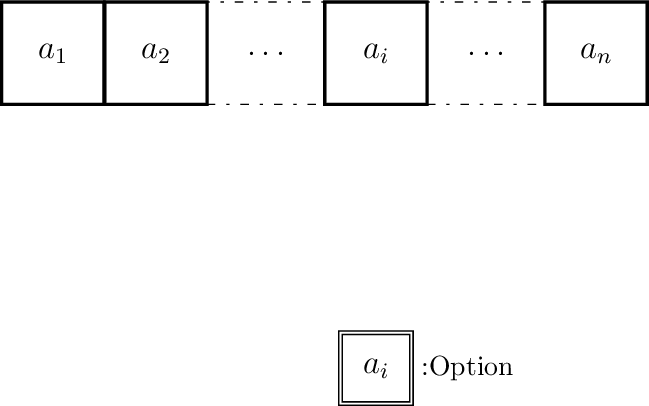
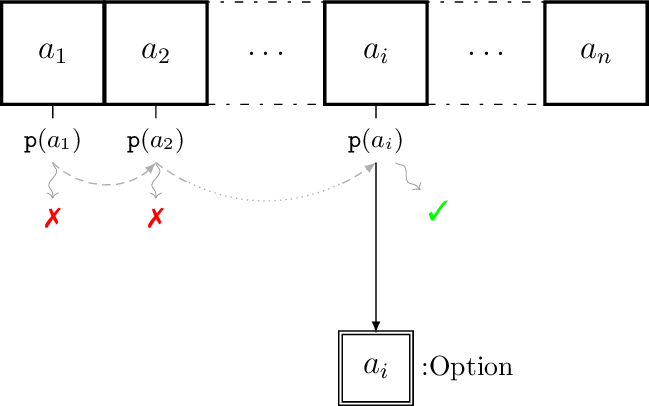
restore find function

diff --git a/src/images/find.tex b/src/images/find.tex
@@ -11,13 +11,17 @@
 
 \node (B) [option, below of=ai, node distance=4cm] {$a_i$};
 
-\foreach \i in {1,2,i,n} {
-  % \node (fa\i) [predicate, below=0.5em of a\i, pin={[function result, pin position=335]a}] {$\texttt{p}(a_{\i})$};
-  % \draw (a\i) -- (fa\i);
+\foreach \i/\d/\p in {
+  1/\false/below,
+  2/\false/below,
+  i/\true/310}
+{
+  \node (pa\i) [predicate, below=0.5em of a\i, pin={[function result, pin position=\p] \d}] {$\texttt{p}(a_{\i})$};
+  \draw (a\i) -- (pa\i);
 }
 
-% \draw (pa1.south) [iteration] to (pa2.south);
-% \draw (pa2.south) [iteration, middotted, bend right=37] to (pai.south);
-% \draw (pai.south) [arrow] -- (B);
+\draw (pa1.south) [iteration] to (pa2.south);
+\draw (pa2.south) [iteration, middotted, bend right=37] to (pai.south);
+\draw (pai.south) [arrow] -- (B);
 
 \input{_footer.tex}
